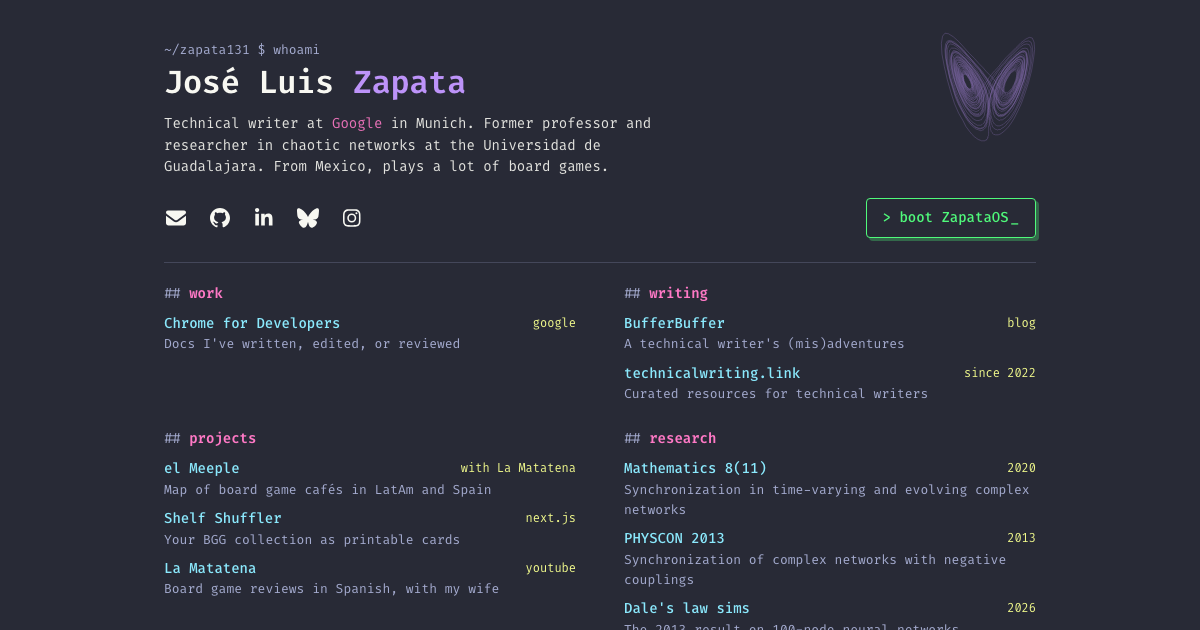
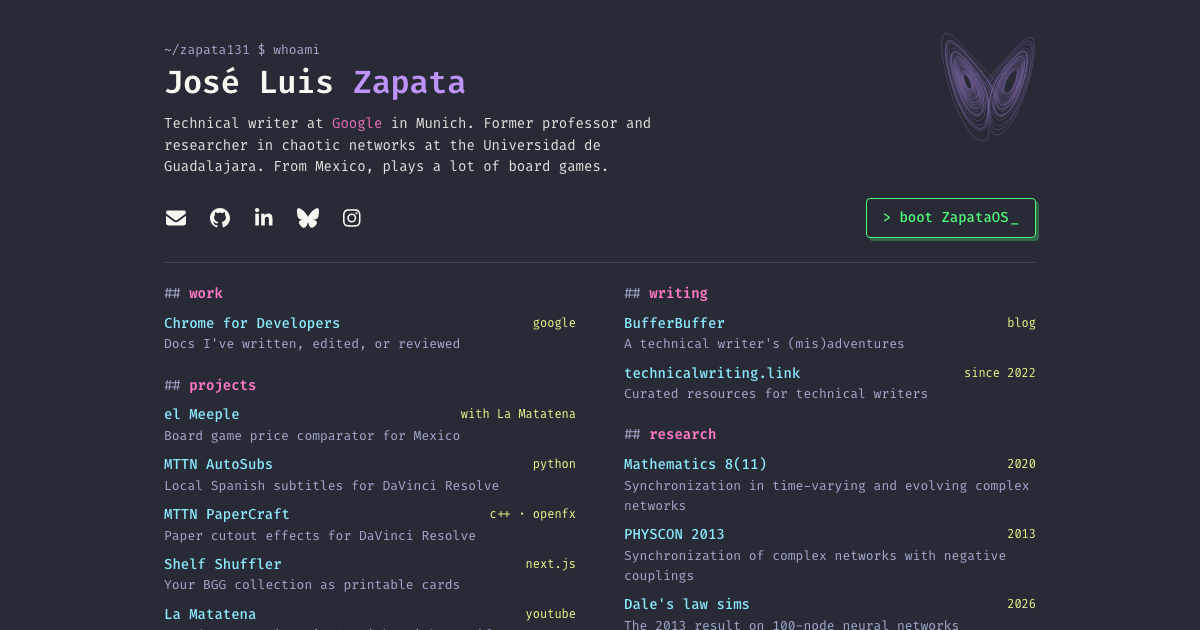
Projects: el Meeple is a price comparator; add MTTN AutoSubs and PaperCraft Studio

diff --git a/es/index.html b/es/index.html
@@ -51,6 +51,7 @@
     </header>
 
     <div class="grid">
+      <div class="col">
       <section aria-labelledby="h0">
         <h2 id="h0"><span aria-hidden="true">## </span>trabajo</h2>
         <ul class="list">
@@ -61,6 +62,38 @@
           </li>
         </ul>
       </section>
+      <section aria-labelledby="h2">
+        <h2 id="h2"><span aria-hidden="true">## </span>proyectos</h2>
+        <ul class="list">
+          <li>
+            <a href="https://elmeeple.com">el Meeple</a>
+            <span class="meta">con La Matatena</span>
+            <p>Comparador de precios de juegos en México</p>
+          </li>
+          <li>
+            <a href="https://la-matatena.github.io/mttn-autosubs-tool/">MTTN AutoSubs</a>
+            <span class="meta">python</span>
+            <p>Subtítulos locales en español para Resolve</p>
+          </li>
+          <li>
+            <a href="https://la-matatena.github.io/mttn-papercraft-studio/">MTTN PaperCraft</a>
+            <span class="meta">c++ · openfx</span>
+            <p>Efectos de papel recortado para Resolve</p>
+          </li>
+          <li>
+            <a href="https://github.com/zapata131/shelf-shuffle">Shelf Shuffler</a>
+            <span class="meta">next.js</span>
+            <p>Tu colección de BGG en cartas imprimibles</p>
+          </li>
+          <li>
+            <a href="https://la-matatena.com">La Matatena</a>
+            <span class="meta">youtube</span>
+            <p>Reseñas de juegos de mesa, con mi esposa</p>
+          </li>
+        </ul>
+      </section>
+      </div>
+      <div class="col">
       <section aria-labelledby="h1">
         <h2 id="h1"><span aria-hidden="true">## </span>escritura</h2>
         <ul class="list">
@@ -73,26 +106,6 @@
             <a href="https://technicalwriting.link">technicalwriting.link</a>
             <span class="meta">desde 2022</span>
             <p>Recursos para technical writers</p>
-          </li>
-        </ul>
-      </section>
-      <section aria-labelledby="h2">
-        <h2 id="h2"><span aria-hidden="true">## </span>proyectos</h2>
-        <ul class="list">
-          <li>
-            <a href="https://elmeeple.com">el Meeple</a>
-            <span class="meta">con La Matatena</span>
-            <p>Mapa de cafés de juegos en LatAm y España</p>
-          </li>
-          <li>
-            <a href="https://github.com/zapata131/shelf-shuffle">Shelf Shuffler</a>
-            <span class="meta">next.js</span>
-            <p>Tu colección de BGG en cartas imprimibles</p>
-          </li>
-          <li>
-            <a href="https://la-matatena.com">La Matatena</a>
-            <span class="meta">youtube</span>
-            <p>Reseñas de juegos de mesa, con mi esposa</p>
           </li>
         </ul>
       </section>
@@ -116,6 +129,7 @@
           </li>
         </ul>
       </section>
+      </div>
     </div>
 
     <footer class="footer">

diff --git a/index.html b/index.html
@@ -51,6 +51,7 @@
     </header>
 
     <div class="grid">
+      <div class="col">
       <section aria-labelledby="h0">
         <h2 id="h0"><span aria-hidden="true">## </span>work</h2>
         <ul class="list">
@@ -61,6 +62,38 @@
           </li>
         </ul>
       </section>
+      <section aria-labelledby="h2">
+        <h2 id="h2"><span aria-hidden="true">## </span>projects</h2>
+        <ul class="list">
+          <li>
+            <a href="https://elmeeple.com">el Meeple</a>
+            <span class="meta">with La Matatena</span>
+            <p>Board game price comparator for Mexico</p>
+          </li>
+          <li>
+            <a href="https://la-matatena.github.io/mttn-autosubs-tool/">MTTN AutoSubs</a>
+            <span class="meta">python</span>
+            <p>Local Spanish subtitles for DaVinci Resolve</p>
+          </li>
+          <li>
+            <a href="https://la-matatena.github.io/mttn-papercraft-studio/">MTTN PaperCraft</a>
+            <span class="meta">c++ · openfx</span>
+            <p>Paper cutout effects for DaVinci Resolve</p>
+          </li>
+          <li>
+            <a href="https://github.com/zapata131/shelf-shuffle">Shelf Shuffler</a>
+            <span class="meta">next.js</span>
+            <p>Your BGG collection as printable cards</p>
+          </li>
+          <li>
+            <a href="https://la-matatena.com">La Matatena</a>
+            <span class="meta">youtube</span>
+            <p>Board game reviews in Spanish, with my wife</p>
+          </li>
+        </ul>
+      </section>
+      </div>
+      <div class="col">
       <section aria-labelledby="h1">
         <h2 id="h1"><span aria-hidden="true">## </span>writing</h2>
         <ul class="list">
@@ -73,26 +106,6 @@
             <a href="https://technicalwriting.link">technicalwriting.link</a>
             <span class="meta">since 2022</span>
             <p>Curated resources for technical writers</p>
-          </li>
-        </ul>
-      </section>
-      <section aria-labelledby="h2">
-        <h2 id="h2"><span aria-hidden="true">## </span>projects</h2>
-        <ul class="list">
-          <li>
-            <a href="https://elmeeple.com">el Meeple</a>
-            <span class="meta">with La Matatena</span>
-            <p>Map of board game cafés in LatAm and Spain</p>
-          </li>
-          <li>
-            <a href="https://github.com/zapata131/shelf-shuffle">Shelf Shuffler</a>
-            <span class="meta">next.js</span>
-            <p>Your BGG collection as printable cards</p>
-          </li>
-          <li>
-            <a href="https://la-matatena.com">La Matatena</a>
-            <span class="meta">youtube</span>
-            <p>Board game reviews in Spanish, with my wife</p>
           </li>
         </ul>
       </section>
@@ -116,6 +129,7 @@
           </li>
         </ul>
       </section>
+      </div>
     </div>
 
     <footer class="footer">

diff --git a/desktop/index.html b/desktop/index.html
@@ -140,7 +140,15 @@
       <div class="window-content projects-list">
         <div class="project-item">
           <h3><a href="https://elmeeple.com" target="_blank" rel="noopener">el Meeple</a></h3>
-          <p>Map of board game cafés and TCG stores in Latin America and Spain. Built with La Matatena.</p>
+          <p>Board game price comparator for Mexico, with price history. Built with La Matatena.</p>
+        </div>
+        <div class="project-item">
+          <h3><a href="https://la-matatena.github.io/mttn-autosubs-tool/" target="_blank" rel="noopener">MTTN AutoSubs</a></h3>
+          <p>Spanish subtitles generated locally with Whisper, synced to DaVinci Resolve.</p>
+        </div>
+        <div class="project-item">
+          <h3><a href="https://la-matatena.github.io/mttn-papercraft-studio/" target="_blank" rel="noopener">MTTN PaperCraft Studio</a></h3>
+          <p>OpenFX plugin for Resolve: paper cutouts, torn cardstock edges, a paper fold transition, Foley paper sounds.</p>
         </div>
         <div class="project-item">
           <h3><a href="https://github.com/zapata131/shelf-shuffle" target="_blank" rel="noopener">Shelf Shuffler</a></h3>

diff --git a/desktop/script.js b/desktop/script.js
@@ -130,7 +130,7 @@ document.addEventListener('DOMContentLoaded', () => {
       let response = '';
       if (cmd === 'help') response = 'Available commands: help, whoami, ls, projects, papers, docs, contact, clear, hack, date';
       else if (cmd === 'whoami') response = 'User: Zapata | Permissions: Superuser | Role: Technical Writer';
-      else if (cmd === 'projects') response = 'el Meeple (elmeeple.com), Shelf Shuffler, technicalwriting.link, BufferBuffer, La Matatena. Open B-Sides.log for links.';
+      else if (cmd === 'projects') response = 'el Meeple (elmeeple.com), MTTN AutoSubs, MTTN PaperCraft Studio, Shelf Shuffler, technicalwriting.link, BufferBuffer, La Matatena. Open B-Sides.log for links.';
       else if (cmd === 'papers') response = '2020  Synchronization in Time-Varying and Evolving Complex Networks. Mathematics 8(11).\n2013  Synchronization of Complex Networks with Negative Couplings. PHYSCON 2013.';
       else if (cmd === 'docs') response = 'developer.chrome.com/authors/zapata';
       else if (cmd === 'contact') response = 'joseluis@zapata131.com';

diff --git a/styles.css b/styles.css
@@ -437,3 +437,7 @@ h2 span {
 .caret {
   margin-right: 1ch;
 }
+
+.col {
+  min-width: 0;
+}

diff --git a/CONTEXT.md b/CONTEXT.md
@@ -7,7 +7,9 @@ Former professor and researcher at the Universidad de Guadalajara (synchronizati
 
 - **Work**: Chrome for Developers author page, https://developer.chrome.com/authors/zapata
 - **Writing**: BufferBuffer (bufferbuffer.com), technicalwriting.link (repo `tw-links`)
-- **Projects**: el Meeple (elmeeple.com, with La Matatena), Shelf Shuffler (`shelf-shuffle`), La Matatena
+- **Projects**: el Meeple (elmeeple.com, board game price comparator for Mexico, with La Matatena),
+  MTTN AutoSubs and MTTN PaperCraft Studio (github.com/la-matatena, DaVinci Resolve tools),
+  Shelf Shuffler (`shelf-shuffle`), La Matatena
 - **Research**:
   - Solís-Perales, Zapata, Obregón-Pulido. "Synchronization in Time-Varying and Evolving Complex Networks."
     *Mathematics* 8(11), 1939, 2020. doi:10.3390/math8111939
